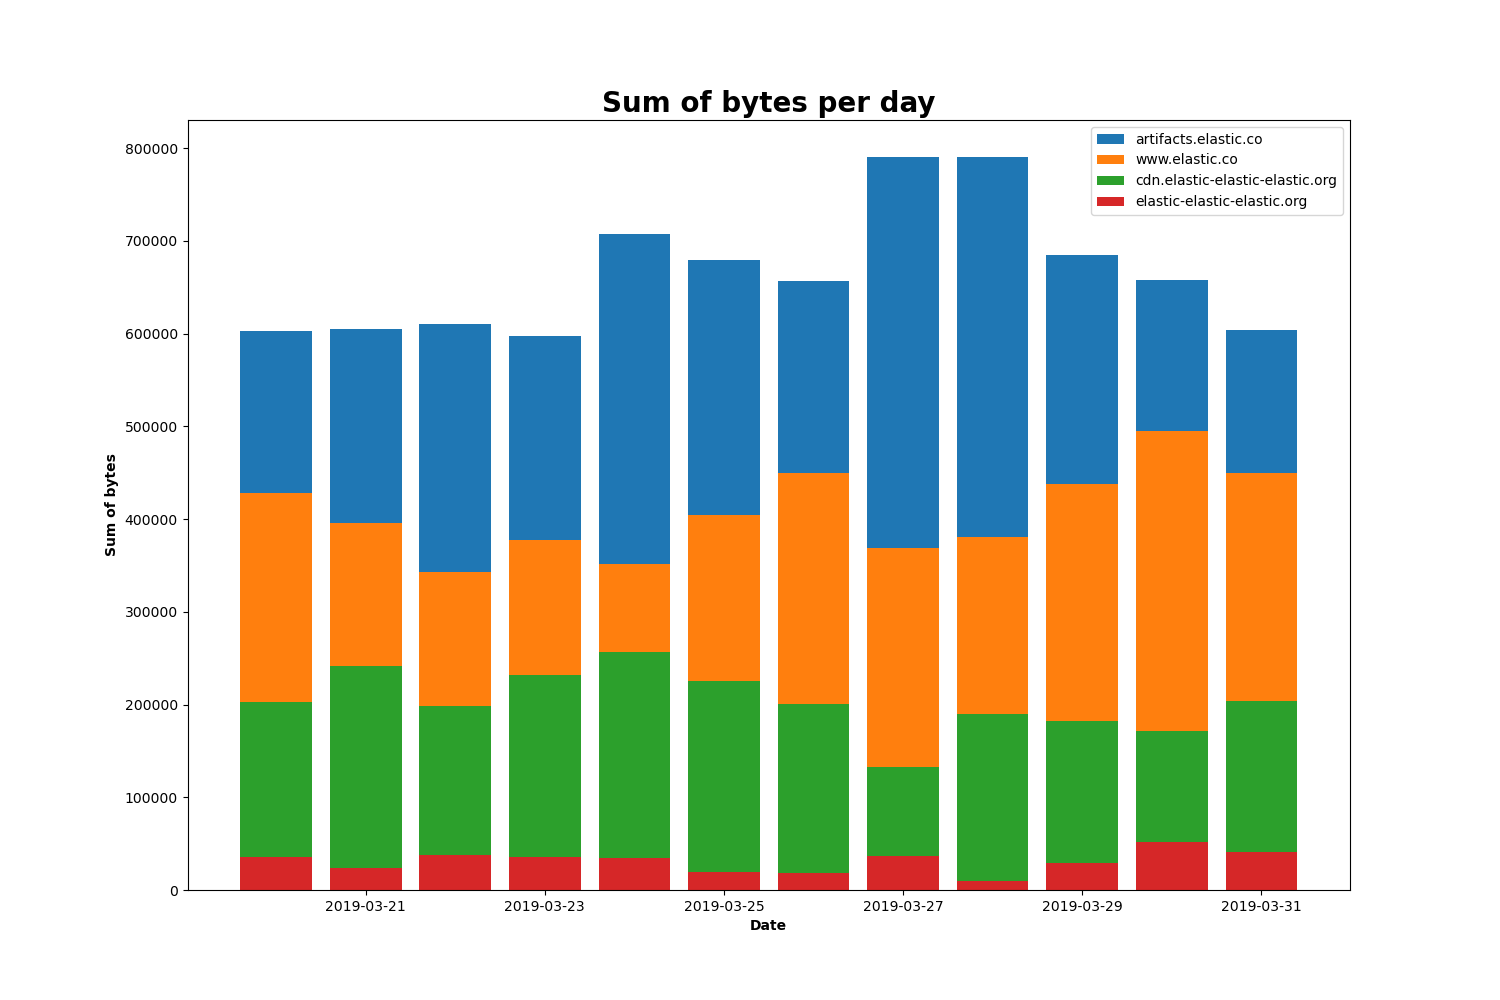
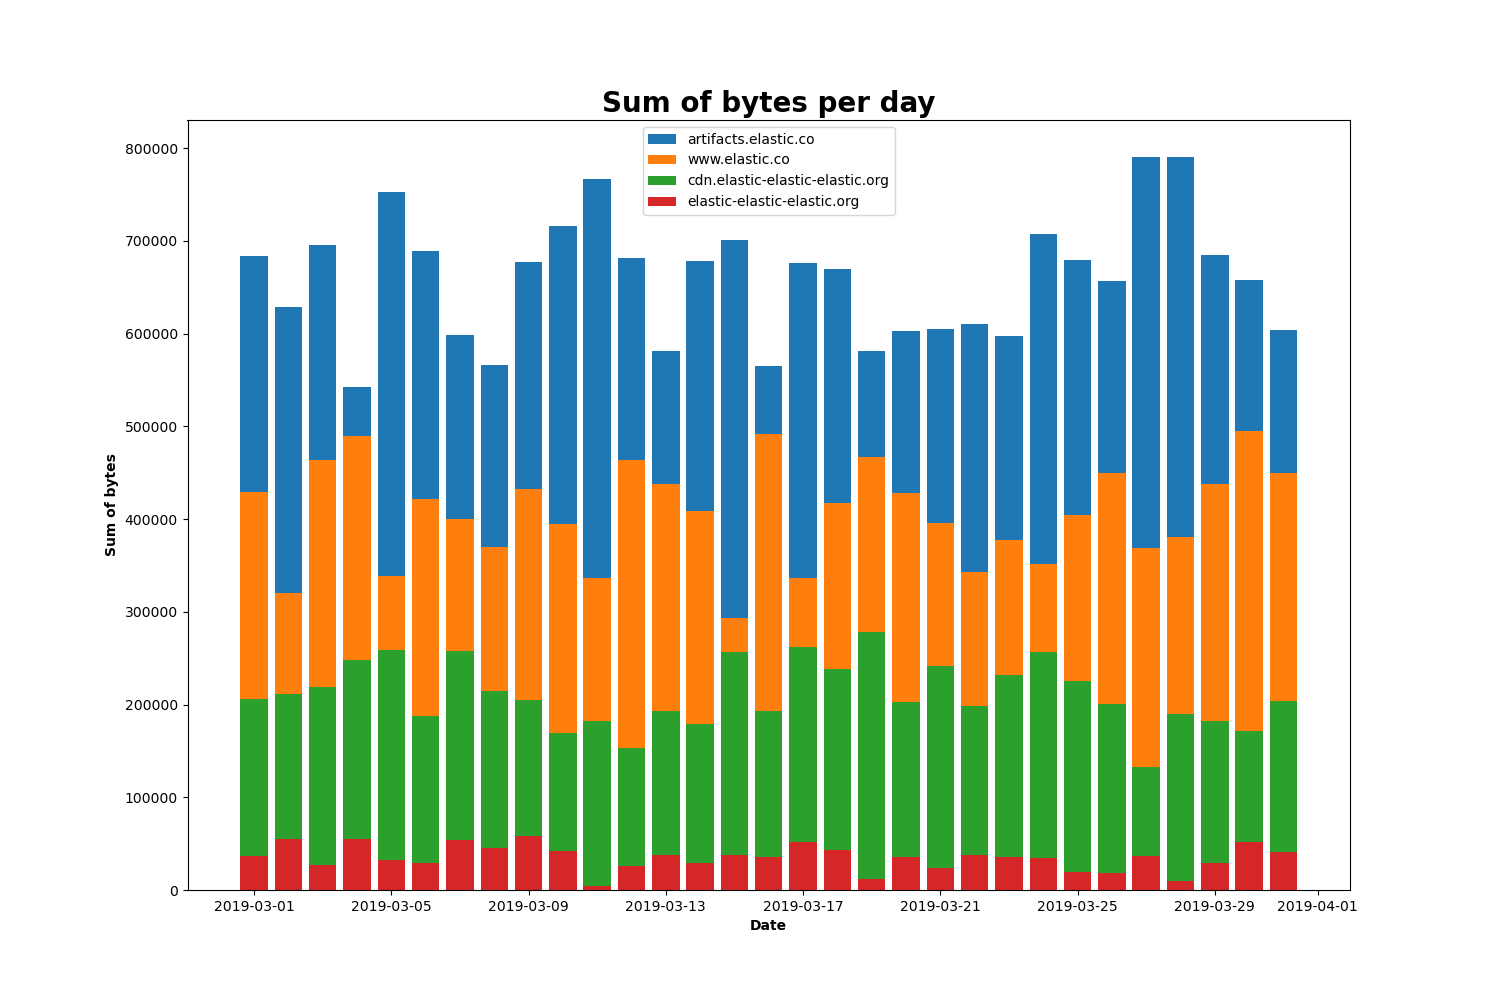
Initial commit

Changed region(s): [[0.1533, 0.124, 0.8893, 0.93]]

diff --git a/sum_bytes.py b/sum_bytes.py
@@ -6,7 +6,7 @@ from argparse import ArgumentTypeError
 from elasticsearch_dsl import Search
 
 from es_client import get_es_client, es_arg_parser
-from consts import LOGS_INDEX
+from consts import LOGS_INDEX, LOGS_FN_IMPORT, LOGS_IMAGE_IMPORT, LOGS_BEGIN, LOGS_END
 
 import matplotlib as mpl
 import matplotlib.pyplot as plt
@@ -84,10 +84,14 @@ def load_args():
             raise ArgumentTypeError(msg)
 
     arg_parser = es_arg_parser()
-    arg_parser.add_argument("-b", "--begin", action="store", type=valid_date, default="2019-03-01")
-    arg_parser.add_argument("-e", "--end", action="store", type=valid_date, default="2019-04-01")
-    arg_parser.add_argument("-f", "--filename", action="store", default="bytes.csv")
-    arg_parser.add_argument("-i", "--imagename", action="store", default="bytes.png")
+    arg_parser.add_argument("-b", "--begin", action="store", type=valid_date, default=LOGS_BEGIN,
+                            help=f"Beginning of period in 'YYYY-MM-DD' format, default = {LOGS_BEGIN}")
+    arg_parser.add_argument("-e", "--end", action="store", type=valid_date, default=LOGS_END,
+                            help=f"End of period in 'YYYY-MM-DD' format, default = {LOGS_END}")
+    arg_parser.add_argument("-f", "--filename", action="store", default=LOGS_FN_IMPORT,
+                            help=f"File to import, default = {LOGS_FN_IMPORT}")
+    arg_parser.add_argument("-i", "--imagename", action="store", default=LOGS_IMAGE_IMPORT,
+                            help=f"File to import, default = {LOGS_IMAGE_IMPORT}")
 
     return arg_parser.parse_args()
 

diff --git a/avg_delay.py b/avg_delay.py
@@ -3,7 +3,7 @@ import csv
 from elasticsearch_dsl import Search
 
 from es_client import get_es_client, es_arg_parser
-from consts import FLIGHTS_INDEX
+from consts import FLIGHTS_INDEX, FLIGHTS_FN_IMPORT
 
 
 def delay_per_carrier(es):
@@ -33,7 +33,8 @@ def delays_to_csv(delays, filename):
 
 def load_args():
     arg_parser = es_arg_parser()
-    arg_parser.add_argument("-f", "--filename", action="store", default="delays.csv")
+    arg_parser.add_argument("-f", "--filename", action="store", default=FLIGHTS_FN_IMPORT,
+                            help=f"File to import, default = {FLIGHTS_FN_IMPORT}")
 
     return arg_parser.parse_args()
 

diff --git a/es_client.py b/es_client.py
@@ -7,8 +7,8 @@ from consts import HOST, PORT
 
 def es_arg_parser():
     arg_parser = ArgumentParser()
-    arg_parser.add_argument("-H", "--host", action="store", default=HOST)
-    arg_parser.add_argument("-P", "--port", action="store", type=int, default=PORT)
+    arg_parser.add_argument("-H", "--host", action="store", default=HOST, help=f"Elasticsearch host, default = {HOST}")
+    arg_parser.add_argument("-P", "--port", action="store", type=int, default=PORT, help=f"Elasticsearch port, default = {PORT}")
 
     return arg_parser
 

diff --git a/load_flights.py b/load_flights.py
@@ -1,9 +1,17 @@
-from es_client import get_client, load_to_index
+from es_client import get_es_client, load_to_index, es_arg_parser
 from consts import FLIGHTS_INDEX, FLIGHTS_FN
 
 
+def load_args():
+    arg_parser = es_arg_parser()
+    return arg_parser.parse_args()
+
+
 def main():
-    client = get_client()
+    args = load_args()
+    host = args.host
+    port = args.port
+    client = get_es_client(host, port)
     load_to_index(client, FLIGHTS_INDEX, FLIGHTS_FN)
 
 

diff --git a/load_logs.py b/load_logs.py
@@ -1,9 +1,17 @@
-from es_client import get_client, load_to_index
+from es_client import get_es_client, load_to_index, es_arg_parser
 from consts import LOGS_INDEX, LOGS_FN
 
 
+def load_args():
+    arg_parser = es_arg_parser()
+    return arg_parser.parse_args()
+
+
 def main():
-    client = get_client()
+    args = load_args()
+    host = args.host
+    port = args.port
+    client = get_es_client(host, port)
     load_to_index(client, LOGS_INDEX, LOGS_FN)
 
 

diff --git a/consts.py b/consts.py
@@ -3,6 +3,12 @@ PORT = 9200
 
 FLIGHTS_INDEX = "flights"
 FLIGHTS_FN = "flights.json"
+FLIGHTS_FN_IMPORT = "delays.csv"
 
 LOGS_INDEX = "logs"
 LOGS_FN = "logs.json"
+LOGS_FN_IMPORT = "bytes.csv"
+LOGS_IMAGE_IMPORT = "bytes.png"
+
+LOGS_BEGIN = "2019-03-01"
+LOGS_END = "2019-04-01"

diff --git a/readme.md b/readme.md
@@ -1,0 +1,109 @@
+# Тестовое задание по работе с данными, хранящимися в Elasticsearch.
+
+
+## Установка
+
+`git clone https://github.com/dmtrbrlkv/Elastic`
+
+Желательно создать virtualenv
+
+```
+cd Elastic
+python -m venv venv
+source venv/bin/activate
+```
+
+Перед запуском установить зависимости
+
+`pip install -r requirements.txt`
+
+## Запуск
+
+#### Загрузка полетов в Elasticsearch
+
+```
+python load_flights.py
+```
+```
+optional arguments:
+  -h, --help            show this help message and exit
+  -H HOST, --host HOST  Elasticsearch host, default = localhost
+  -P PORT, --port PORT  Elasticsearch port, default = 9200
+```
+
+#### Загрузка логов в Elasticsearch
+
+```
+python load_logs.py
+optional arguments:
+  -h, --help            show this help message and exit
+  -H HOST, --host HOST  Elasticsearch host, default = localhost
+  -P PORT, --port PORT  Elasticsearch port, default = 9200
+```
+
+#### Среднее значение задержки рейсов
+
+```
+python avg_delay.py
+```
+```
+optional arguments:
+  -h, --help            show this help message and exit
+  -H HOST, --host HOST  Elasticsearch host, default = localhost
+  -P PORT, --port PORT  Elasticsearch port, default = 9200
+  -f FILENAME, --filename FILENAME
+                        File to import, default = delays.csv
+
+```
+
+##### Пример
+
+delays.csv:
+
+Carrier | Average FlightDelayMin
+------------ | -------------
+Logstash Airways |48.71335504885994
+JetBeats |45.786830357142854
+Kibana Airlines | 45.59394844975719
+ES-Air  | 47.60844964164466
+
+
+#### Сумма байт за каждый день для каждого хоста
+
+```
+python sum_bytes.py
+```
+```
+optional arguments:
+  -h, --help            show this help message and exit
+  -H HOST, --host HOST  Elasticsearch host, default = localhost
+  -P PORT, --port PORT  Elasticsearch port, default = 9200
+  -b BEGIN, --begin BEGIN
+                        Beginning of period in 'YYYY-MM-DD' format, default =
+                        2019-03-01
+  -e END, --end END     End of period in 'YYYY-MM-DD' format, default =
+                        2019-04-01
+  -f FILENAME, --filename FILENAME
+                        File to import, default = bytes.csv
+  -i IMAGENAME, --imagename IMAGENAME
+                        File to import, default = bytes.png
+
+
+```
+
+##### Пример
+
+bytes.csv:
+
+Date | Host | Sum of bytes
+------------ | ------------- | -------------
+20.03.2019 | artifacts.elastic.co | 603079.0
+20.03.2019 | www.elastic.co | 428062.0
+20.03.2019 | cdn.elastic-elastic-elastic.org | 202486.0
+20.03.2019 | elastic-elastic-elastic.org | 35985.0
+... | ... | ...
+
+
+bytes.png:
+
+![bytes.png](bytes.png)
